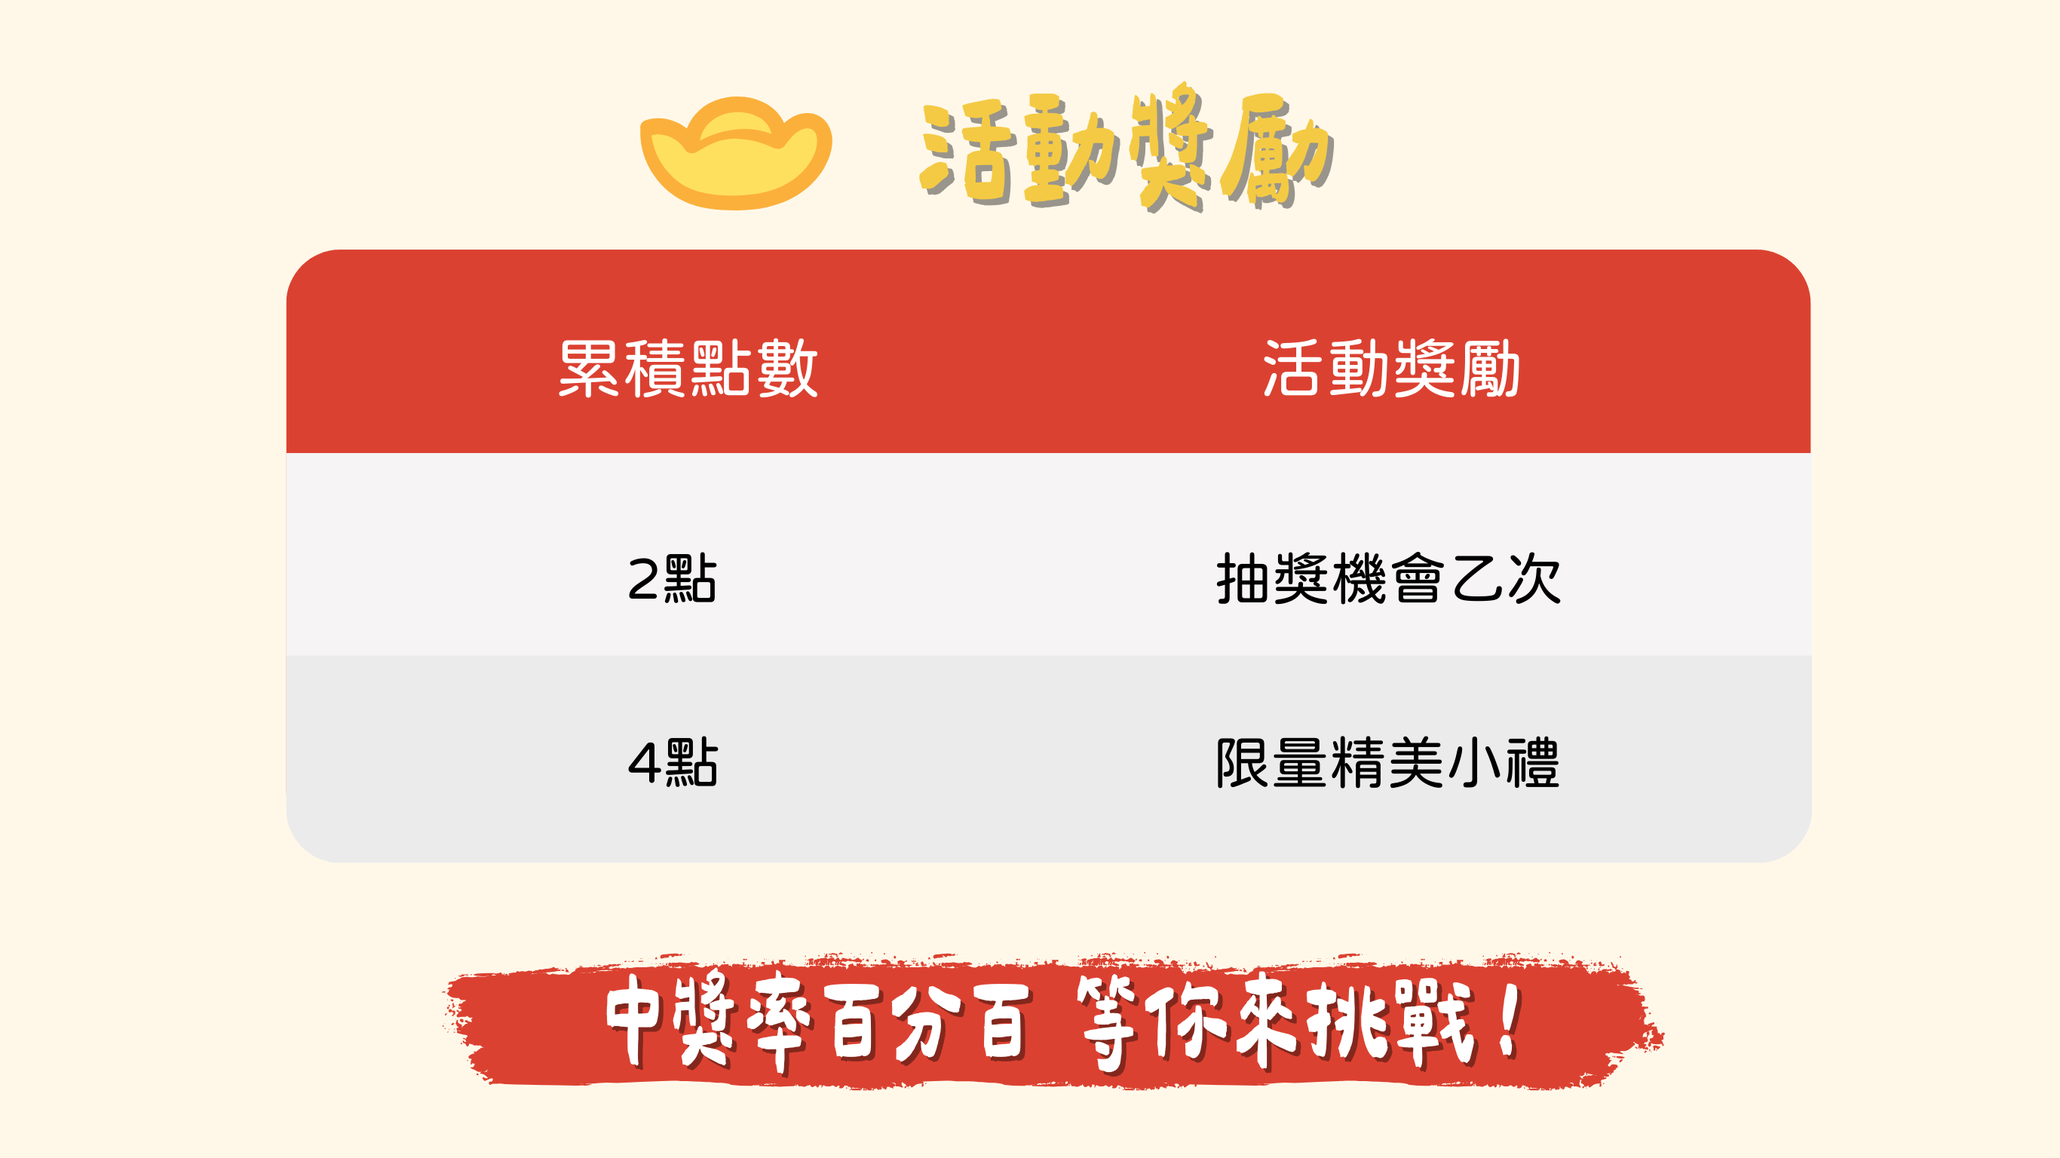
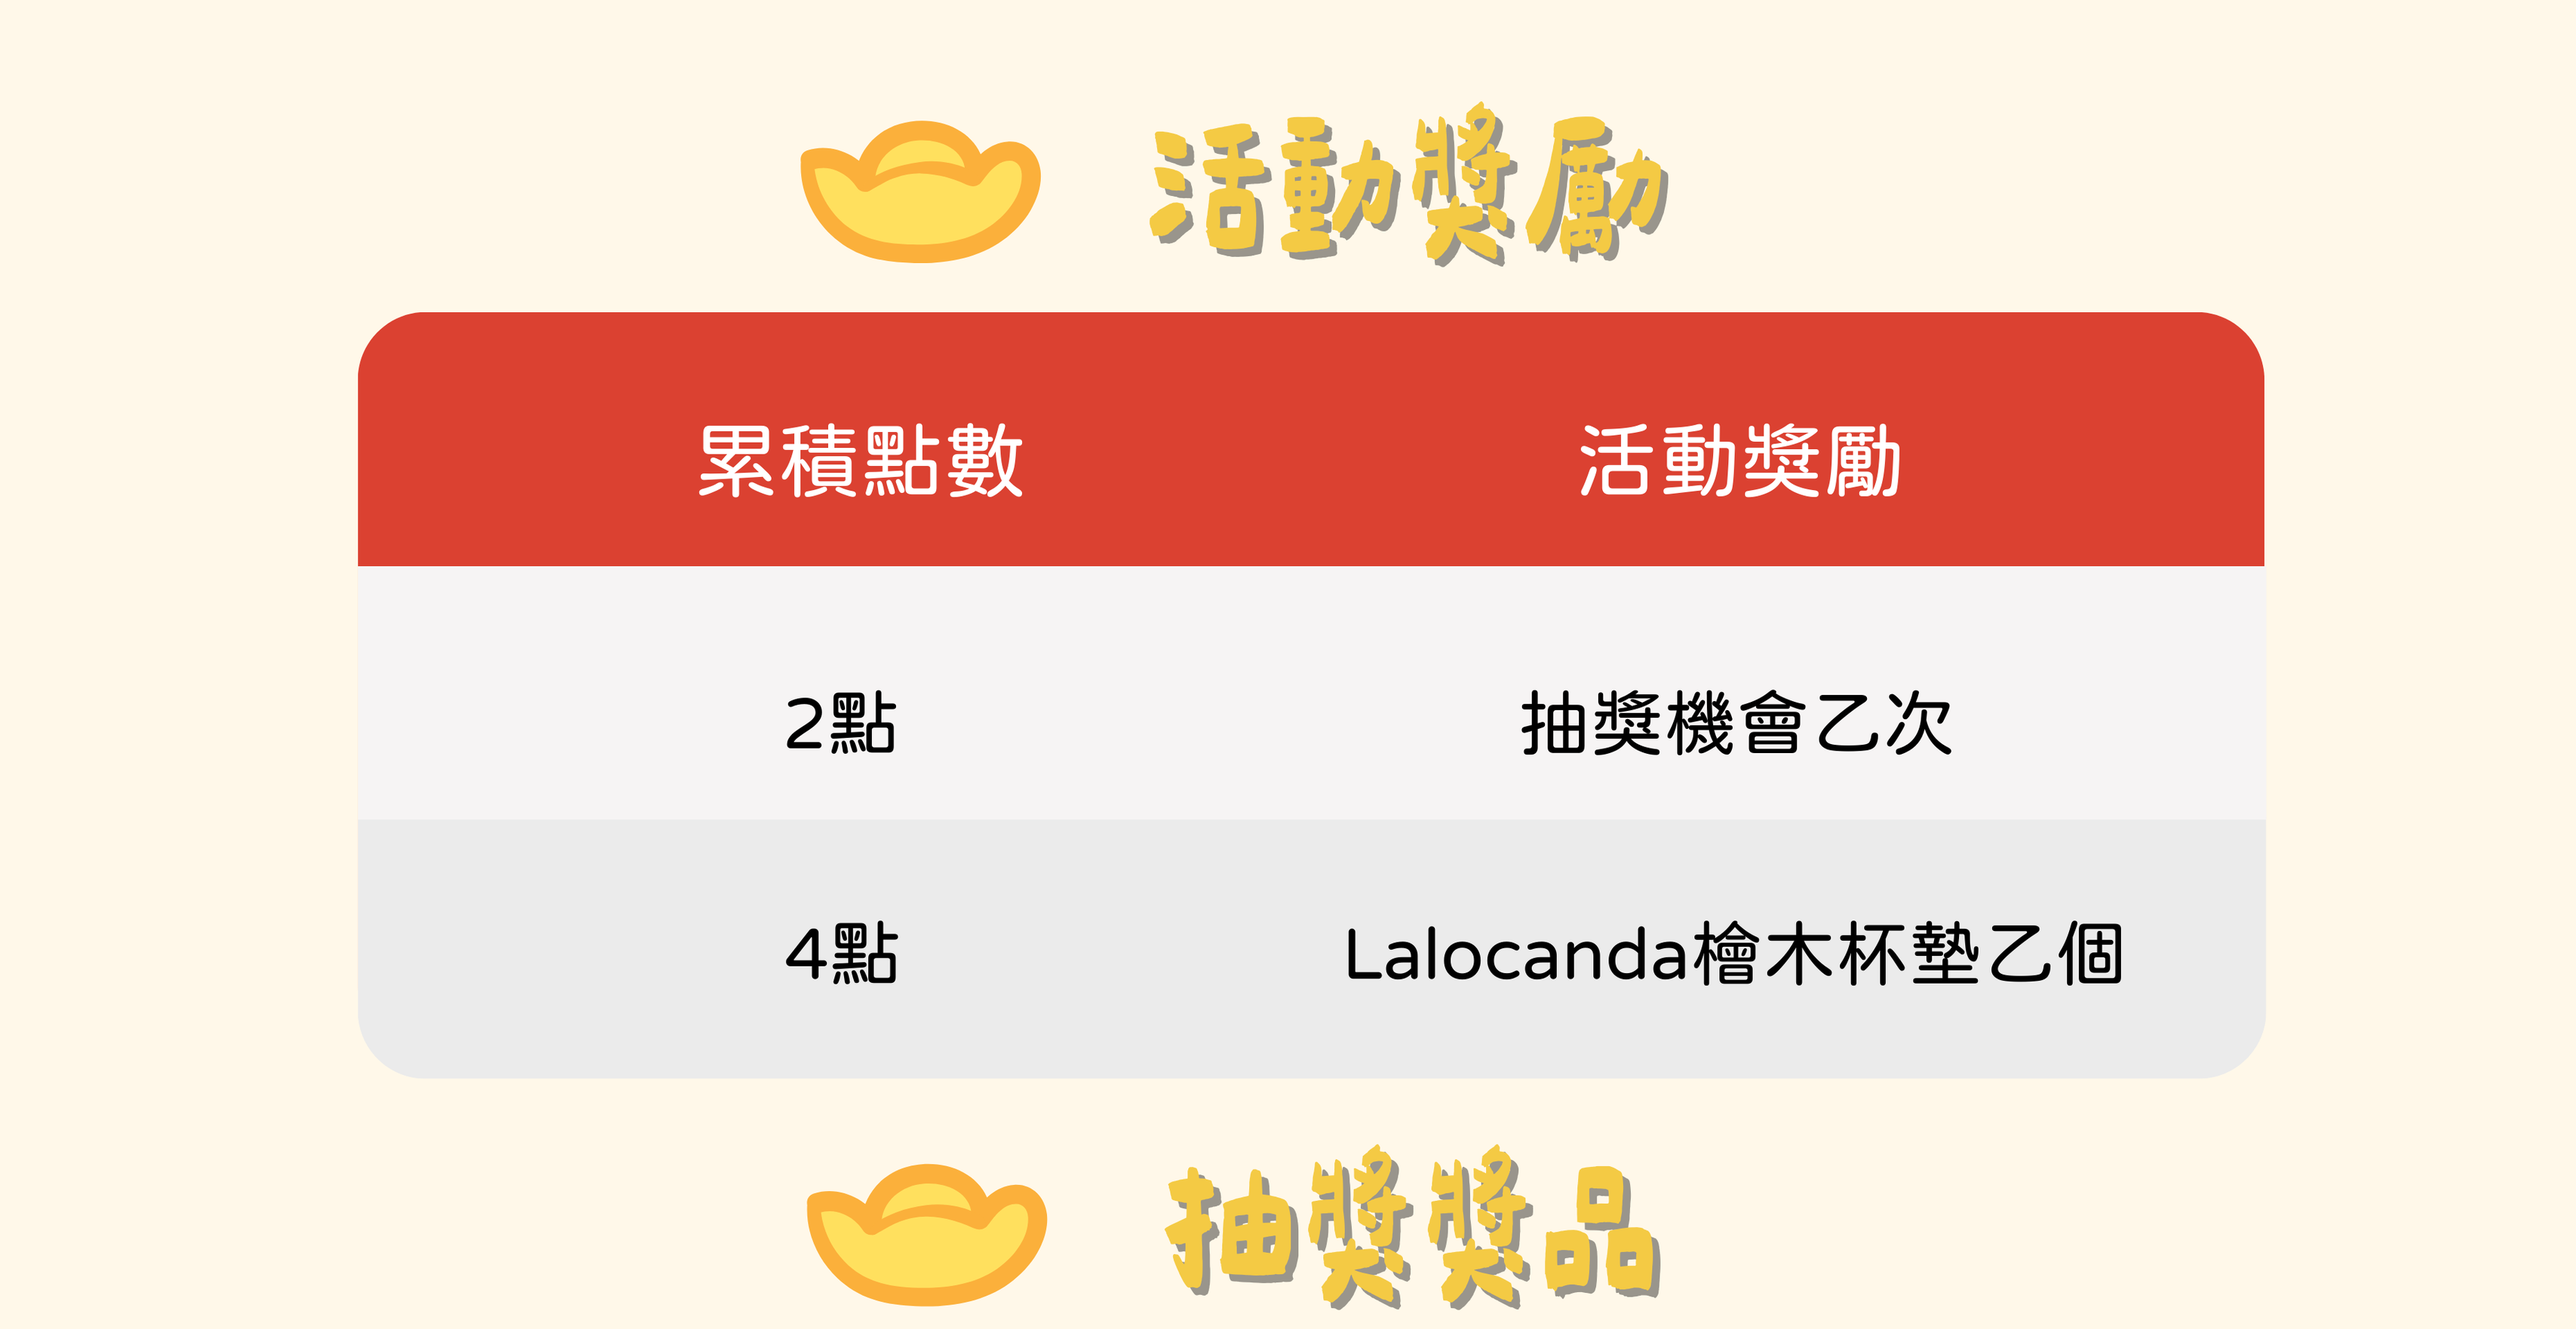
Add files via upload

diff --git a/2365/images/index.html b/2365/images/index.html
@@ -1,0 +1,237 @@
+<!doctype html>
+<html lang="zh-Hant-TW">
+
+
+<head>
+
+    <!-- Required meta tags -->
+    <title>麥閣「蛇」啊！走春集章送好禮
+    </title>
+    <meta name="description" content="麥閣「蛇」啊！走春集章送好禮" />
+    <meta name="keywords" content="咖哩鬥陣" />
+    <meta name="google-site-verification" content="MB4AQqXWZI22w6JpVEOWoiOfdtXMHNiagbJWSFdlhHI" />
+    <meta charset="utf-8">
+    <meta name="viewport" content="width=device-width, initial-scale=1, shrink-to-fit=no">
+    <meta property="" />
+
+    <!-- Bootstrap CSS -->
+    <link rel="stylesheet" href="css/bootstrap.min.css">
+    <link rel="stylesheet" href="css/style.css">
+
+    <meta charset="utf-8">
+    <meta name="viewport" content="width=device-width, initial-scale=1, shrink-to-fit=no">
+    <link rel="icon" href="/favicon.ico" type="image/x-icon" />
+    <!-- Bootstrap CSS -->
+    <link rel="stylesheet" href="https://stackpath.bootstrapcdn.com/bootstrap/4.3.1/css/bootstrap.min.css" integrity="sha384-ggOyR0iXCbMQv3Xipma34MD+dH/1fQ784/j6cY/iJTQUOhcWr7x9JvoRxT2MZw1T" crossorigin="anonymous">
+    <!-- layout CSS -->
+    <link rel="stylesheet" href="style/layout.css">
+    <!-- Global site tag (gtag.js) - Google Analytics -->
+    <style>
+    </style>
+    <script async src="https://www.googletagmanager.com/gtag/js?id=UA-194927061-1"></script>
+
+    <script>
+        window.dataLayer = window.dataLayer || [];
+        function gtag() { dataLayer.push(arguments); }
+        gtag('js', new Date());
+        gtag('config', 'UA-194927061-1');
+    </script>
+</head>
+
+<body>
+    <div>
+       <img class="p-block" src="images/banner_pc1.png" style="width: 100%;"></a>
+       <img class="p-block" src="images/banner_pc2.png" style="width: 100%;"></a>
+       <img class="p-block" src="images/banner_pc3.png" style="width: 100%;"></a>
+       <img class="p-block" src="images/banner_pc7.png" style="width: 100%;"></a>
+       <img class="p-block" src="images/banner_pc4.png" style="width: 100%;"></a>
+       <a href="https://www.google.com/maps/d/u/0/edit?hl=zh-TW&mid=1-zkd8vfKW77RRDjsi-uW-vy3KoLqhj0&ll=22.997971781124576%2C120.19841219891883&z=17"target="_blank"><img class="p-block" src="images/banner_pc5.png" style="width: 100%;"></a>
+       <a href="https://schej.it/e/6cEEd"target="_blank"><img class="p-block" src="images/banner_pc6.png" style="width: 100%;"></a>
+        <img class="m-block" src="images/banner_sp1.png" style="width: 100%;"></a>
+        <img class="m-block" src="images/banner_sp2.png" style="width: 100%;"></a>
+        <img class="m-block" src="images/banner_sp3.png" style="width: 100%;"></a>
+        <img class="m-block" src="images/banner_sp7.png" style="width: 100%;"></a>
+        <img class="m-block" src="images/banner_sp4.png" style="width: 100%;"></a>
+        <a href="https://www.google.com/maps/d/u/0/edit?hl=zh-TW&mid=1-zkd8vfKW77RRDjsi-uW-vy3KoLqhj0&ll=22.997971781124576%2C120.19841219891883&z=17"target="_blank"><img class="m-block" src="images/banner_sp5.png" style="width: 100%;"></a>
+        <a href="https://schej.it/e/6cEEd"target="_blank"><img class="m-block" src="images/banner_sp6.png" style="width: 100%;"></a>
+    
+
+    </div>
+    <!-- 注意事項 -->
+    <div>
+        <div class="container-fluid bg-red">
+          <div class="container">
+            <div class="d-flex justify-content-center mb-4 pt-5"><img class=" img-fluid" src="images/title_03.png"
+              width="120px" alt="">
+          </div>
+            <div class="row pb-4 ps-4">
+              <div class="col-lg-12">
+                <p class="p_w_18">《注意事項》</p>
+                <ul class="" style="list-style-type:decimal;">
+                  <li class="p_g_18">活動期間：2025/1/24（五）-2025/3/2（日）。</li>
+                  <li class="p_g_18">活動辦法：活動期間至合作店家消費累積點數即可參加抽獎，集滿兩點可獲得一次抽獎機會（人人有獎）；集滿四點可獲得一份精美小禮。
+                  </li>
+                  <li class="p_g_18">合作店家：欽欽珈琲、左撇子外帶咖啡吧、吃貨製造所、好皮playful、咖哩鬥陣、天心軒素食喜餅、許來福豆簽羹、清珍鴨肉焿。
+                  </li>
+                  <li class="p_g_18">抽獎地點：咖哩鬥陣（請於活動期間咖哩鬥陣營業時間前往抽獎，營業時間請參考注意事項第5點）。
+                  </li>
+                  <li class="p_g_18">營業時間：<a href="https://schej.it/e/6cEEd" target="_blank" rel="noopener noreferrer">點我查看</a>。</li>
+
+
+                  <li class="p_g_18">合作店家之營業時間，請依各店家實際公佈為準，</li>
+                  <li class="p_g_18">咖哩鬥陣保留本活動內容調整、取消、終止及最終解釋之權利，如有任何疑問，請發信至migersnake@gmail.com與主辦單位聯絡。
+
+                </ul>
+              </div>
+            </div>
+            
+            <div class="container mt-5">
+              <div class="row pb-4 ps-4">
+                <div class="col-lg-12">
+                  <p class="p_w_18">《常見QA》</p>
+                  
+                  <ul style="list-style-type:decimal;">
+                    <table class="table table-striped table-light font-s-brown">
+                      <thead>
+                        <tr>
+                          <th>項目</th>
+                          <th>問題與回答</th>
+                        </tr>
+                      </thead>
+                      <tbody>
+                        <tr>
+                          <th>Q1</th>
+                          <td>
+                            <details>
+                              <summary>如何獲得集點卡？</summary>
+                              <p>集點卡可於合作店家（欽欽珈琲、左撇子外帶咖啡吧、吃貨製造所、好皮playful、咖哩鬥陣、天心軒素食喜餅、許來福豆簽羹、清珍鴨肉焿）索取，數量有限，發完為止。</p>
+                            </details>
+                          </td>
+                        </tr>
+                        <tr>
+                          <th>Q2</th>
+                          <td>
+                            <details>
+                              <summary>每次消費都可以集點嗎？</summary>
+                              <p>是的，活動期間至合作店家消費即可集點。</p>
+                            </details>
+                          </td>
+                        </tr>
+                        <tr>
+                          <th>Q3</th>
+                          <td>
+                            <details>
+                              <summary>集滿印章後如何參加抽獎？</summary>
+                              <p>活動期間於咖哩鬥陣營業時間持集點卡（台南市中西區普濟街53號）至店內抽獎。贈品現場抽選，且不累積兌換，如：小明兌換2點參加一次抽獎後，2點印章將歸零，需重新累積點數才能再次參加抽獎或兌換贈品。</p>
+                            </details>
+                          </td>
+                        </tr>
+                        <tr>
+                          <th>Q4</th>
+                          <td>
+                            <details>
+                              <summary>是否有兌換次數限制？</summary>
+                              <p>每人每天兌換次數不限。</p>
+                            </details>
+                          </td>
+                        </tr>
+                        <tr>
+                          <th>Q5</th>
+                          <td>
+                            <details>
+                              <summary>如果贈品兌換完畢怎麼辦？</summary>
+                              <p>贈品數量有限，兌換完即結束。</p>
+                            </details>
+                          </td>
+                        </tr>
+                        <tr>
+                          <th>Q6</th>
+                          <td>
+                            <details>
+                              <summary>抽獎獎品可否更改其他品項呢？</summary>
+                              <p>無法更改其他品項，贈品一旦兌領後，若有遺失、損毀、盜領或遭竊等喪失佔有之情形，恕不負責補發。</p>
+                            </details>
+                          </td>
+                        </tr>
+                        <tr>
+                          <th>Q7</th>
+                          <td>
+                            <details>
+                              <summary>不同集點卡的印章可以合併使用嗎？</summary>
+                              <p>不可以。每張集點卡僅限於單獨累積點數，無法將不同集點卡上的印章合併計算以兌換贈品。</p>
+                            </details>
+                          </td>
+                        </tr>
+                        <tr>
+                          <th>Q8</th>
+                          <td>
+                            <details>
+                              <summary>如果有多張集點卡，可以分別使用嗎？</summary>
+                              <p>可以，但每張集點卡需各自累積至指定點數才能兌換相應的贈品。</p>
+                            </details>
+                          </td>
+                        </tr>
+                      </tbody>
+                    </table>
+                  </ul>
+                </div>
+              </div>
+            </div>
+    <!--<footer>
+         頁尾 - 社群功能
+        <div class="copyright py-2">
+            <div class="container">
+                <div class="cpr"><img src="images/cpr.svg" alt=""></div>
+                <div class="phone"><img src="images/phone2.png" alt=""></div>
+            </div>
+        </div> 
+    </footer>-->
+
+    <!-- Optional JavaScript -->
+    <!-- jQuery first, then Popper.js, then Bootstrap JS -->
+    <script src="https://code.jquery.com/jquery-3.3.1.slim.min.js" integrity="sha384-q8i/X+965DzO0rT7abK41JStQIAqVgRVzpbzo5smXKp4YfRvH+8abtTE1Pi6jizo" crossorigin="anonymous"></script>
+    <script src="https://cdnjs.cloudflare.com/ajax/libs/popper.js/1.14.7/umd/popper.min.js" integrity="sha384-UO2eT0CpHqdSJQ6hJty5KVphtPhzWj9WO1clHTMGa3JDZwrnQq4sF86dIHNDz0W1" crossorigin="anonymous"></script>
+    <script src="https://stackpath.bootstrapcdn.com/bootstrap/4.3.1/js/bootstrap.min.js" integrity="sha384-JjSmVgyd0p3pXB1rRibZUAYoIIy6OrQ6VrjIEaFf/nJGzIxFDsf4x0xIM+B07jRM" crossorigin="anonymous"></script>
+
+    <script>
+        $(function () {
+
+            var $elem = $('.js-image-switch');
+
+            var sp = '_sp.';
+            var pc = '_pc.';
+
+            var replaceWidth = 768;
+
+            function imageSwitch() {
+
+                var windowWidth = parseInt(window.innerWidth);
+
+
+                $elem.each(function () {
+                    var $this = $(this);
+
+                    if (windowWidth >= replaceWidth) {
+                        $this.attr('src', $this.attr('src').replace(sp, pc));
+
+
+                    } else {
+                        $this.attr('src', $this.attr('src').replace(pc, sp));
+                    }
+                });
+            }
+            imageSwitch();
+
+
+            var resizeTimer;
+            $(window).on('resize', function () {
+                clearTimeout(resizeTimer);
+                resizeTimer = setTimeout(function () {
+                    imageSwitch();
+                }, 200);
+            });
+        });
+    </script>
+</body>
+
+</html>
